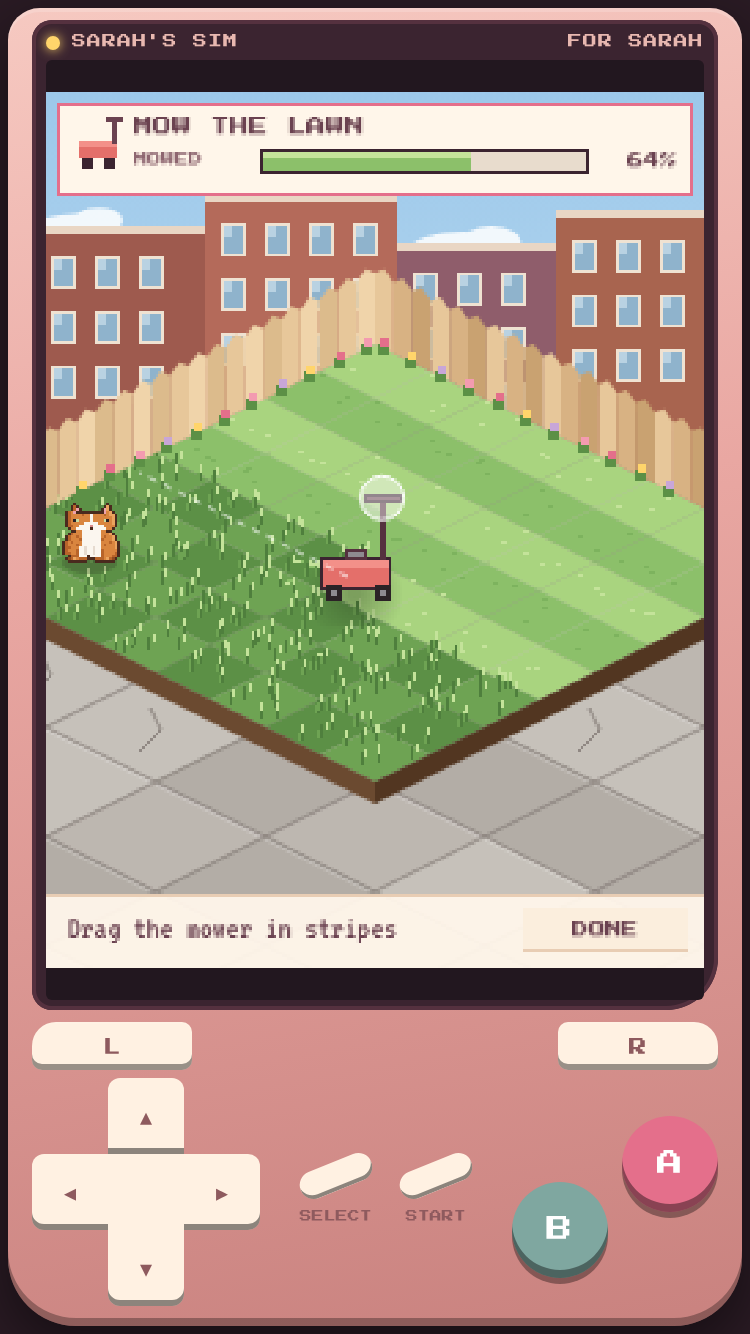
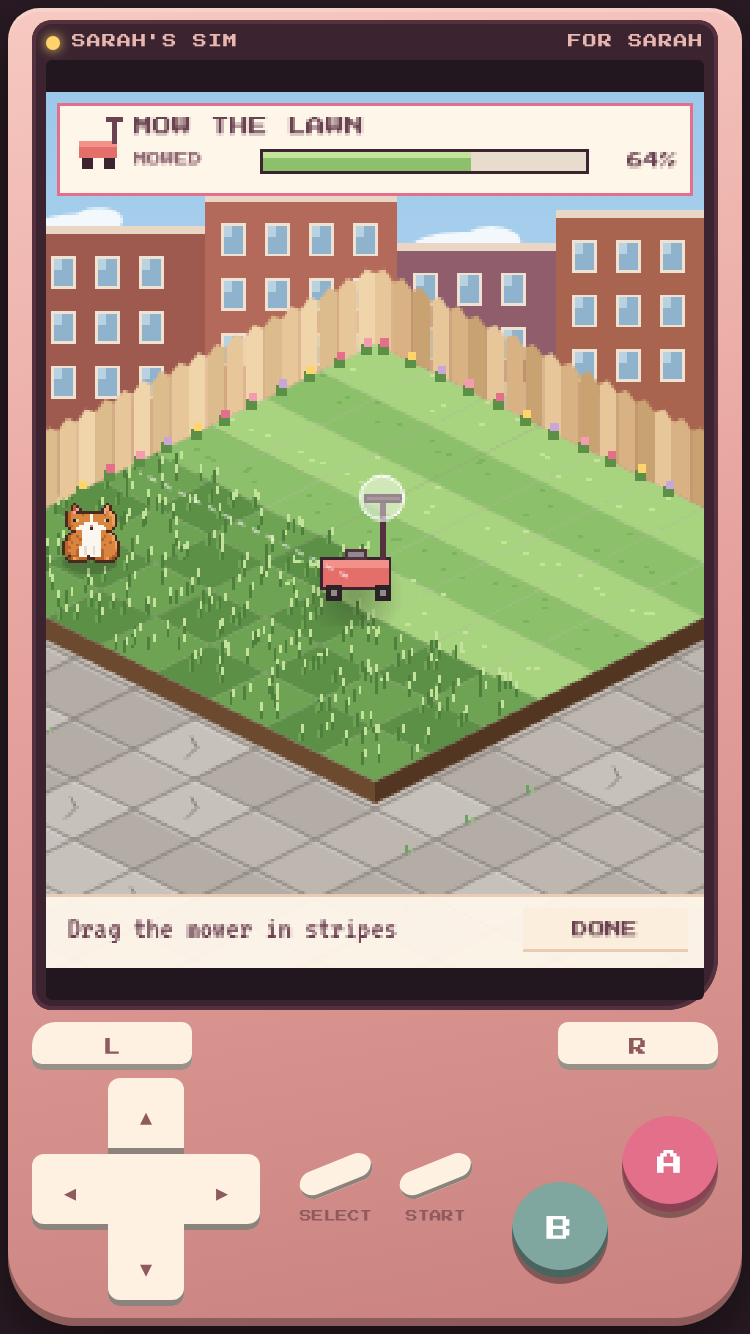
Sarah's Sim: mowing shot concrete slabs sized to match the yard
Claude-Session: https://claude.ai/code/session_019kG9BtZjtrUuyQHKgYVmkD

diff --git a/games/sarahs-sim/mockups/minigame-v1.js b/games/sarahs-sim/mockups/minigame-v1.js
@@ -86,13 +86,14 @@
     poly(pts, '#bdb7b0');
     c.save(); c.beginPath(); c.moveTo(pts[0][0], pts[0][1]); for (var i = 1; i < pts.length; i++) c.lineTo(pts[i][0], pts[i][1]); c.closePath(); c.clip();
     // gray concrete: big square slabs with joints, a little shading per slab, a few cracks and weeds
-    for (var sy = -30; sy < 30; sy += 2) for (var sx = -30; sx < 30; sx += 2) {
-      var v = hash(sx + 40, sy + 40), a = iso(sx, sy), b = iso(sx + 2, sy), cc = iso(sx + 2, sy + 2), d = iso(sx, sy + 2);
+    var Z = 1.1; // slab size in tiles; this grid is bigger than the yard's, so slabs match the yard on screen
+    for (var sy = -30; sy < 30; sy += Z) for (var sx = -30; sx < 30; sx += Z) {
+      var v = hash(Math.round(sx * 10) + 40, Math.round(sy * 10) + 40), a = iso(sx, sy), b = iso(sx + Z, sy), cc = iso(sx + Z, sy + Z), d = iso(sx, sy + Z);
       cPoly([a, b, cc, d], (false) ? (v > .5 ? '#eef3f9' : '#e4ebf4') : (v > .66 ? '#c6c1ba' : v > .33 ? '#bdb7b0' : '#b3ada6'));
       cLine(a, b, (false) ? 'rgba(170,185,210,.6)' : 'rgba(110,100,95,.55)'); cLine(a, d, (false) ? 'rgba(170,185,210,.6)' : 'rgba(110,100,95,.55)');
       cLine([a[0], a[1] + 1], [b[0], b[1] + 1], 'rgba(255,255,255,.25)');
-      if (!WIN && v > .86) { var m = iso(sx + .6, sy + .7), m2 = iso(sx + 1.1, sy + 1.0), m3 = iso(sx + 1.3, sy + 1.6); cLine(m, m2, 'rgba(90,80,75,.5)'); cLine(m2, m3, 'rgba(90,80,75,.5)'); }
-      if (!WIN && v < .08) { var wd = iso(sx, sy + 1); cR(wd[0] - 1, wd[1] - 3, 1, 3, '#6aa361'); cR(wd[0] + 1, wd[1] - 2, 1, 2, '#8fc47b'); }
+      if (!WIN && v > .86) { var m = iso(sx + .3, sy + .35), m2 = iso(sx + .55, sy + .5), m3 = iso(sx + .65, sy + .8); cLine(m, m2, 'rgba(90,80,75,.5)'); cLine(m2, m3, 'rgba(90,80,75,.5)'); }
+      if (!WIN && v < .08) { var wd = iso(sx, sy + .5); cR(wd[0] - 1, wd[1] - 3, 1, 3, '#6aa361'); cR(wd[0] + 1, wd[1] - 2, 1, 2, '#8fc47b'); }
     }
     c.restore();
   }
